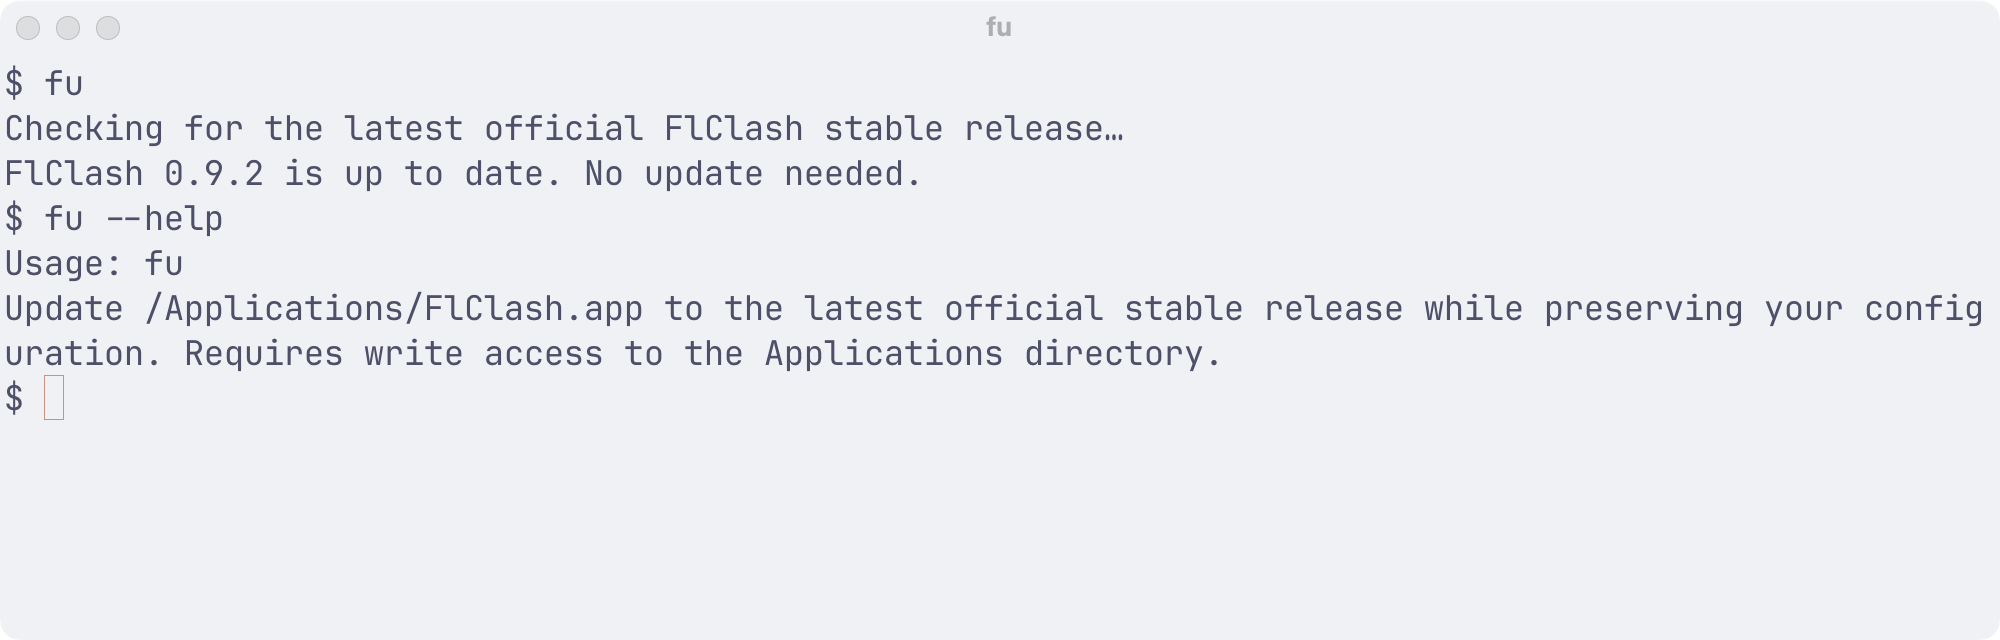
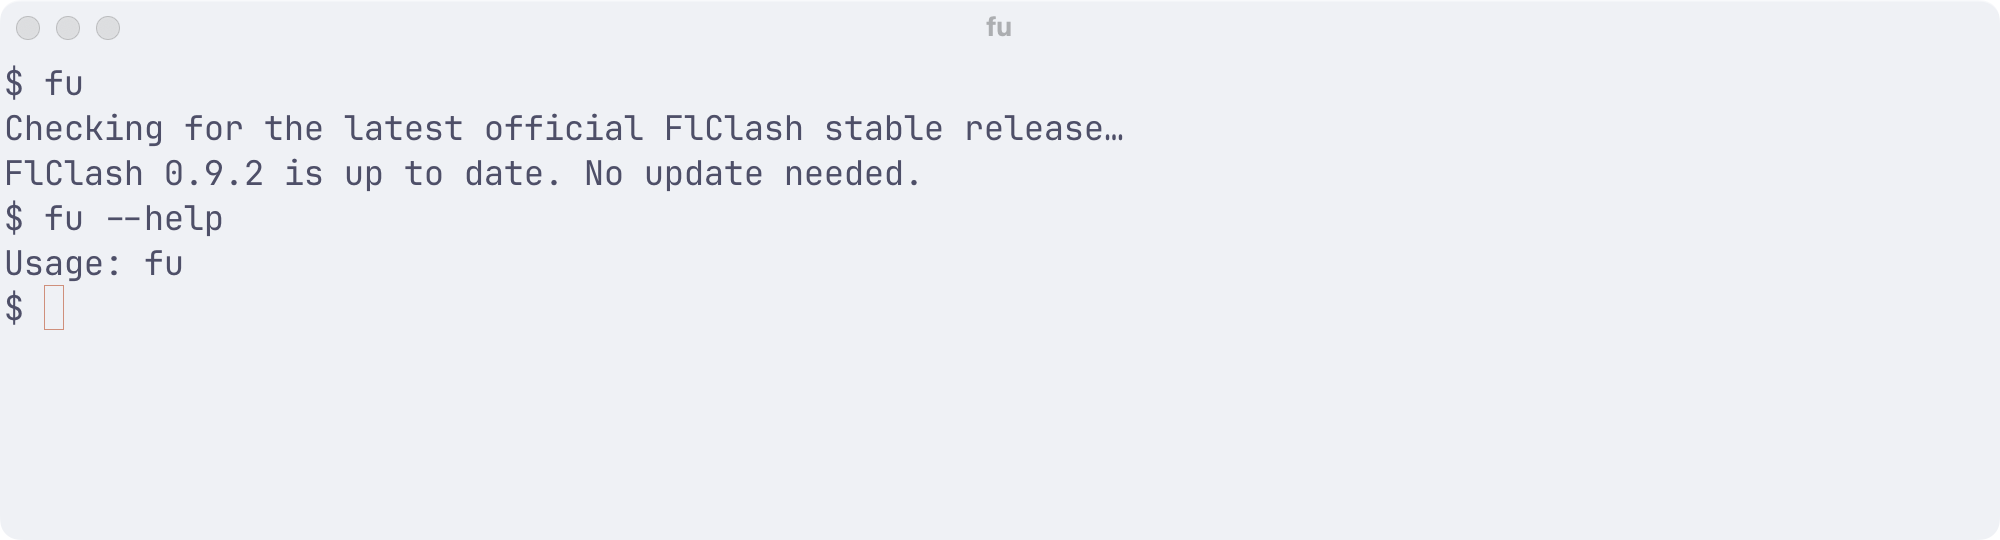
fix(cli): limit help output to usage
Keep both help flags focused on the usage line as requested and refresh the real Ghostty screenshot to match.

Changed region(s): [[0.0, 0.0889, 0.992, 0.6519], [0.496, 0.0296, 0.527, 0.0593]]

diff --git a/src/flclash_updater/cli.py b/src/flclash_updater/cli.py
@@ -55,7 +55,7 @@ def stop_app():
 def update():
     if sys.argv[1:]:
         if sys.argv[1:] in (['--help'], ['-h']):
-            print('Usage: fu\nUpdate /Applications/FlClash.app to the latest official stable release while preserving your configuration. Requires write access to the Applications directory.')
+            print('Usage: fu')
             return
         raise RuntimeError('Unsupported argument. Run fu --help for usage.')
     if platform.system() != 'Darwin':
